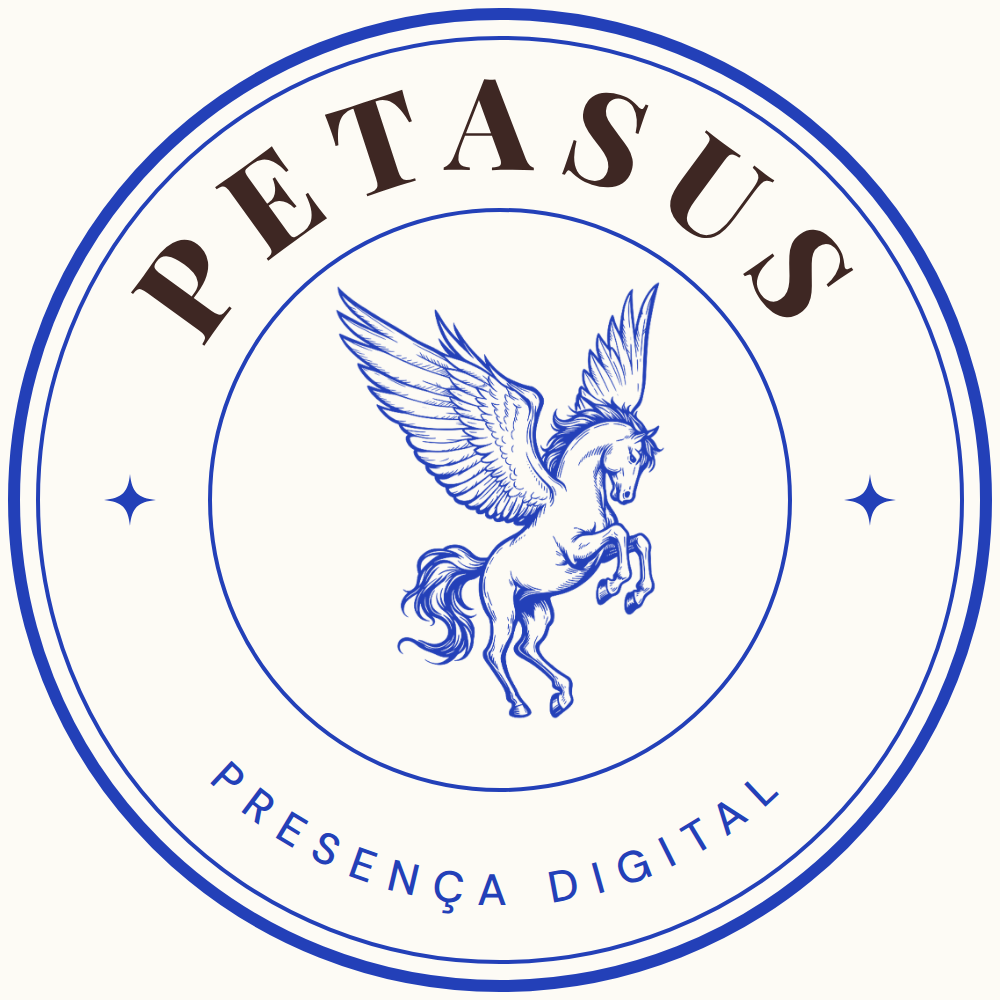
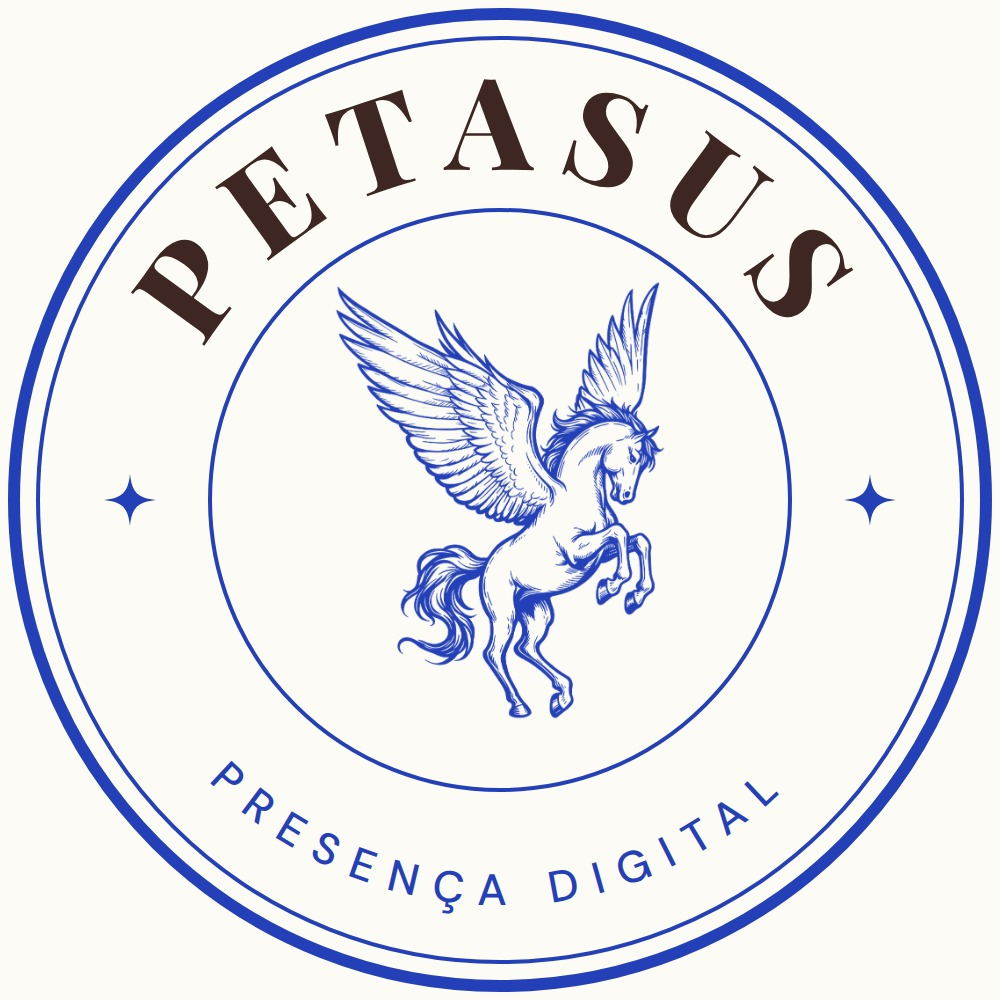
feat: update profile photo and increase UI font sizes

diff --git a/src/app/(frontend)/styles.css b/src/app/(frontend)/styles.css
@@ -302,20 +302,20 @@ main { padding: 35px 39px 0; max-width: 1550px; margin: auto; }
 .profile-avatar { width: 116px; height: 116px; margin: 10px 5px 0; font-size: 74px; outline: 1px solid #ddd; outline-offset: 5px; background: #ffedad; }
 .profile-avatar > span { font-size: 12px; margin: 0 0 42px 3px; }
 .profile-info { flex: 1; min-width: 0; }
-.profile-name { display: flex; gap: 14px; flex-wrap: wrap; font-size: 18px; font-weight: 400; margin: 0; }
+.profile-name { display: flex; gap: 14px; flex-wrap: wrap; font-size: 22px; font-weight: 500; margin: 0; }
 .profile-actions { display: flex; gap: 7px; }
-.profile-actions button { background: #efefef; color: #111; padding: 8px 13px; font-size: 11px; font-weight: 650; border-radius: 7px; white-space: nowrap; }
+.profile-actions button { background: #efefef; color: #111; padding: 8px 16px; font-size: 14px; font-weight: 600; border-radius: 7px; white-space: nowrap; }
 .profile-actions button:hover { background: #dedede; }
-.profile-stats { display: flex; gap: 24px; font-size: 12px; margin: 21px 0 16px; }
-.profile-stats strong { font-weight: 650; }
-.profile-bio { font-size: 11px; line-height: 1.6; }
-.profile-bio > strong { font-weight: 650; display: block; }
-.profile-business-type { color: #8e8e8e; display: block; font-size: 11px; }
+.profile-stats { display: flex; gap: 26px; font-size: 15px; margin: 21px 0 16px; }
+.profile-stats strong { font-weight: 700; font-size: 16px; }
+.profile-bio { font-size: 14px; line-height: 1.6; }
+.profile-bio > strong { font-weight: 700; display: block; font-size: 15px; margin-bottom: 2px; }
+.profile-business-type { color: #8e8e8e; display: block; font-size: 13px; margin-bottom: 2px; }
 .profile-bio > p { white-space: pre-line; line-height: 1.6; margin: 2px 0 4px; }
-.profile-link { display: inline-flex; gap: 5px; align-items: center; color: #00376b; font-size: 11px; font-weight: 600; line-height: 1.8; }
+.profile-link { display: inline-flex; gap: 5px; align-items: center; color: #00376b; font-size: 14px; font-weight: 600; line-height: 1.8; }
 .profile-link:hover { text-decoration: underline; }
 .profile-highlights { display: flex; gap: 26px; padding: 7px 38px 27px; }
-.highlight-button { display: flex; align-items: center; flex-direction: column; gap: 9px; min-width: 66px; font-size: 10px; font-weight: 550; color: #262626; }
+.highlight-button { display: flex; align-items: center; flex-direction: column; gap: 9px; min-width: 66px; font-size: 13px; font-weight: 600; color: #262626; }
 .highlight-ring { border-radius: 50%; border: 1px solid #dedede; padding: 4px; transition: transform .18s; }
 .highlight-button:hover .highlight-ring { transform: translateY(-3px); }
 .highlight-cover { display: flex; align-items: center; justify-content: center; width: 61px; height: 61px; border-radius: 50%; box-shadow: none; }
@@ -327,10 +327,11 @@ main { padding: 35px 39px 0; max-width: 1550px; margin: auto; }
 .highlight-icon-picker .highlight-pegasus { width: 30px; height: 30px; }
 .highlight-symbol-fallback { font-family: var(--font-display); font-size: 24px; }
 .profile-avatar.has-profile-image, .workspace-avatar.has-profile-image { background: #faf9f5; overflow: hidden; border-radius: 50%; }
-.has-profile-image > img { width: 100%; height: 100%; object-fit: contain; }
-.profile-grid-tabs { display: flex; justify-content: center; gap: 53px; border-top: 1px solid #dedede; height: 49px; }
-.profile-grid-tabs button { display: flex; gap: 7px; align-items: center; border-top: 1px solid transparent; margin-top: -1px; color: #8e8e8e; font-size: 9px; letter-spacing: 1px; font-weight: 650; text-transform: uppercase; padding: 0 3px; }
+.has-profile-image > img { width: 100%; height: 100%; object-fit: cover; }
+.profile-grid-tabs { display: flex; justify-content: center; gap: 53px; border-top: 1px solid #dedede; height: 52px; }
+.profile-grid-tabs button { display: flex; gap: 8px; align-items: center; border-top: 1px solid transparent; margin-top: -1px; color: #8e8e8e; font-size: 13px; letter-spacing: 1px; font-weight: 650; text-transform: uppercase; padding: 0 4px; }
 .profile-grid-tabs button.active { border-top-color: #262626; color: #262626; }
+.profile-grid-tabs button svg { width: 18px; height: 18px; }
 .instagram-preview .posts-grid { gap: 3px; }
 .instagram-preview .post-art-wrap { border-radius: 0; box-shadow: none; }
 .instagram-preview .post-meta { display: none; }
@@ -381,12 +382,12 @@ main { padding: 35px 39px 0; max-width: 1550px; margin: auto; }
   .instagram-profile { padding: 27px 25px 20px; gap: 26px; }
   .profile-avatar { width: 96px; height: 96px; font-size: 62px; margin-left: 3px; margin-right: 3px; }
   .profile-avatar > span { margin-bottom: 37px; font-size: 10px; }
-  .profile-name { gap: 12px; font-size: 17px; }
-  .profile-actions button { font-size: 10px; padding: 7px 10px; }
-  .profile-stats { gap: 17px; font-size: 11px; margin-top: 17px; }
+  .profile-name { gap: 12px; font-size: 20px; }
+  .profile-actions button { font-size: 13px; padding: 7px 12px; }
+  .profile-stats { gap: 17px; font-size: 14px; margin-top: 17px; }
   .profile-highlights { padding-left: 27px; padding-right: 27px; gap: 19px; }
   .highlight-cover { width: 53px; height: 53px; }
-  .highlight-button { min-width: 56px; font-size: 9px; }
+  .highlight-button { min-width: 56px; font-size: 12px; }
   .details-sidebar { gap: 18px; }
   .details-sidebar .pillars { display: none; }
   .details-sidebar .export-button { grid-column: 3; grid-row: 1; }
@@ -406,15 +407,15 @@ main { padding: 35px 39px 0; max-width: 1550px; margin: auto; }
   .profile-name { grid-column: 1 / -1; grid-row: 3; }
   .profile-name > span { display: none; }
   .profile-actions { width: 100%; gap: 7px; }
-  .profile-actions button { flex: 1; padding: 8px 4px; font-size: 10px; }
-  .profile-stats { grid-column: 2; grid-row: 1; margin: 0; align-items: center; justify-content: space-between; gap: 5px; font-size: 9px; }
+  .profile-actions button { flex: 1; padding: 8px 6px; font-size: 13px; }
+  .profile-stats { grid-column: 2; grid-row: 1; margin: 0; align-items: center; justify-content: space-between; gap: 5px; font-size: 12px; }
   .profile-stats > span { display: flex; flex-direction: column; text-align: center; gap: 2px; }
-  .profile-stats strong { font-size: 15px; }
-  .profile-bio { grid-column: 1 / -1; grid-row: 2; font-size: 11px; }
-  .profile-business-type { font-size: 10px; }
-  .profile-link { font-size: 11px; }
+  .profile-stats strong { font-size: 16px; }
+  .profile-bio { grid-column: 1 / -1; grid-row: 2; font-size: 13px; }
+  .profile-business-type { font-size: 12px; }
+  .profile-link { font-size: 13px; }
   .profile-highlights { padding: 9px 16px 22px; gap: 16px; justify-content: space-between; }
-  .highlight-button { min-width: 0; font-size: 9px; gap: 7px; }
+  .highlight-button { min-width: 0; font-size: 11px; gap: 7px; }
   .highlight-ring { padding: 3px; }
   .highlight-cover { width: 45px; height: 45px; }
   .highlight-cover svg { width: 20px; height: 20px; }
@@ -514,7 +515,7 @@ main { padding: 35px 39px 0; max-width: 1550px; margin: auto; }
 .highlight-add .highlight-cover { background: #fafafa; color: #737373; }
 .highlight-draft-mini { color: #a38c56; font-size: 7px; font-weight: 400; margin-top: -5px; }
 .profile-manage-highlights { display: flex; justify-content: flex-end; padding: 0 26px 12px; }
-.profile-manage-highlights button { display: flex; align-items: center; gap: 6px; font-size: 9px; color: #8a867c; }
+.profile-manage-highlights button { display: flex; align-items: center; gap: 6px; font-size: 13px; color: #8a867c; font-weight: 550; }
 .profile-manage-highlights button:hover { color: #243cb5; }
 .highlights-panel-note { display: flex; align-items: flex-start; gap: 12px; padding: 18px 20px; background: #f0eee5; border: 1px solid #e7e1d3; border-radius: 6px; margin-bottom: 24px; color: #8a7b61; }
 .highlights-panel-note > svg { flex-shrink: 0; margin-top: 2px; }

diff --git a/src/components/studio/ProfileAvatar.tsx b/src/components/studio/ProfileAvatar.tsx
@@ -10,20 +10,18 @@ export function ProfileAvatar({
   className: string
   large?: boolean
 }) {
+  const avatarSrc = image?.url || '/assets/petasus-instagram-profile.png'
   return (
-    <span className={`${className}${image ? ' has-profile-image' : ''}`}>
-      {image ? (
-        <Image
-          src={image.url}
-          alt={image.alt}
-          width={image.width}
-          height={image.height}
-          sizes={large ? '120px' : '32px'}
-          loading="eager"
-        />
-      ) : (
-        <>P{large && <span>®</span>}</>
-      )}
+    <span className={`${className} has-profile-image`}>
+      <Image
+        src={avatarSrc}
+        alt={image?.alt || 'Foto do perfil da Petasus'}
+        width={image?.width || (large ? 150 : 40)}
+        height={image?.height || (large ? 150 : 40)}
+        sizes={large ? '150px' : '40px'}
+        loading="eager"
+        style={{ objectFit: 'cover', width: '100%', height: '100%', borderRadius: '50%' }}
+      />
     </span>
   )
 }
